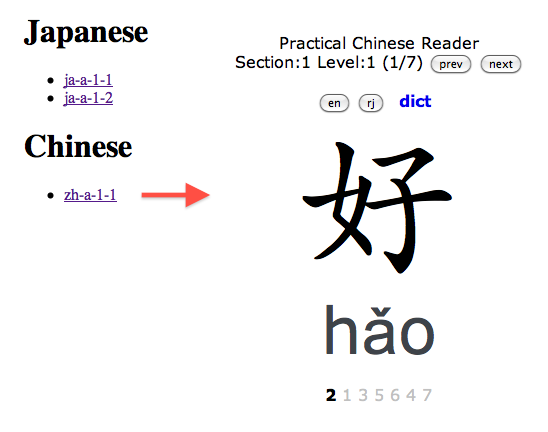
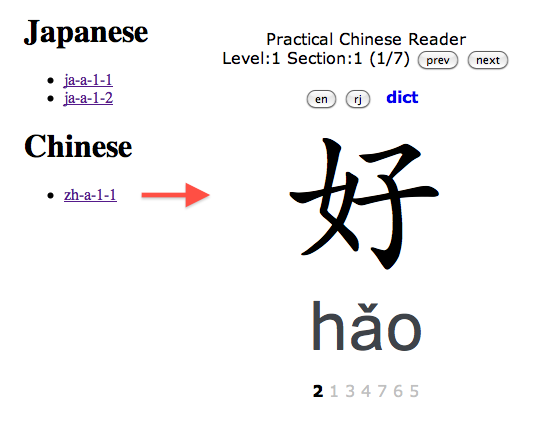
reorder level,section.

diff --git a/static/style.css b/static/style.css
@@ -1,4 +1,5 @@
 body {
+  font-family:Verdana,Arial,Helvetica;
 }
 div#card {
   text-align:center;
@@ -7,14 +8,18 @@ div#index {
     margin-left:25%;
     width:50%;
 }
-#source,#pager,#order {
-  font-family:Verdana,Arial,Helvetica;
+#source,#pager,#order { 
 }
 #buttons {
   padding:1em;
 }
-#dict { padding:0.6em; } 
-#dict A { text-decoration:none; }
+#dict { 
+  padding:0.6em; 
+  font-weight:bold; 
+} 
+#dict A { 
+  text-decoration:none; 
+}
 #ja {
   font-family:"Hiragino Kaku Gothic Std","serif";
 }

diff --git a/templates/card.html b/templates/card.html
@@ -10,8 +10,8 @@
 <div id="source">{{meta.source}}</div>
 
 <div id="pager">
- Section:{{meta.section}} 
  Level:{{meta.level}}
+ Section:{{meta.section}} 
  (<span id="num"></span>/<span id="count"></span>)
  <input type="button" id="prev" value="prev"></input>
  <input type="button" id="next" value="next"></input>
